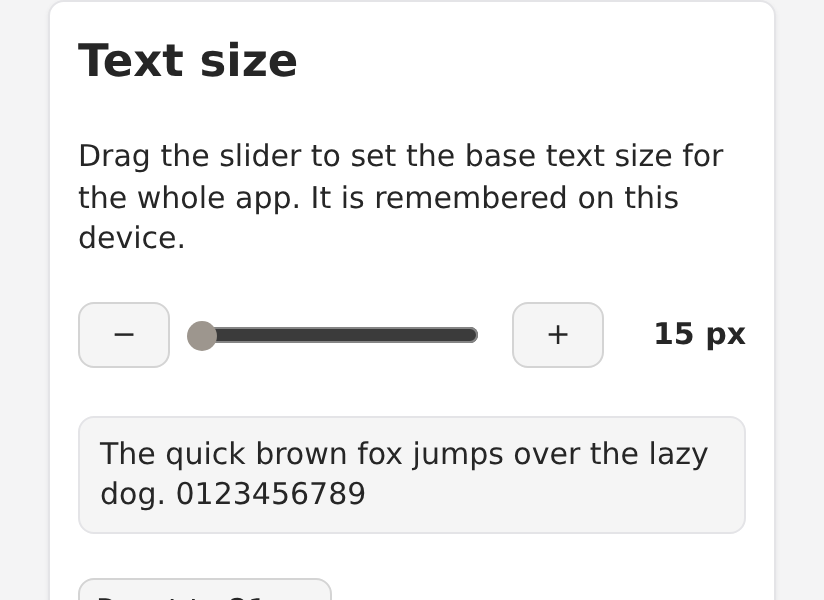
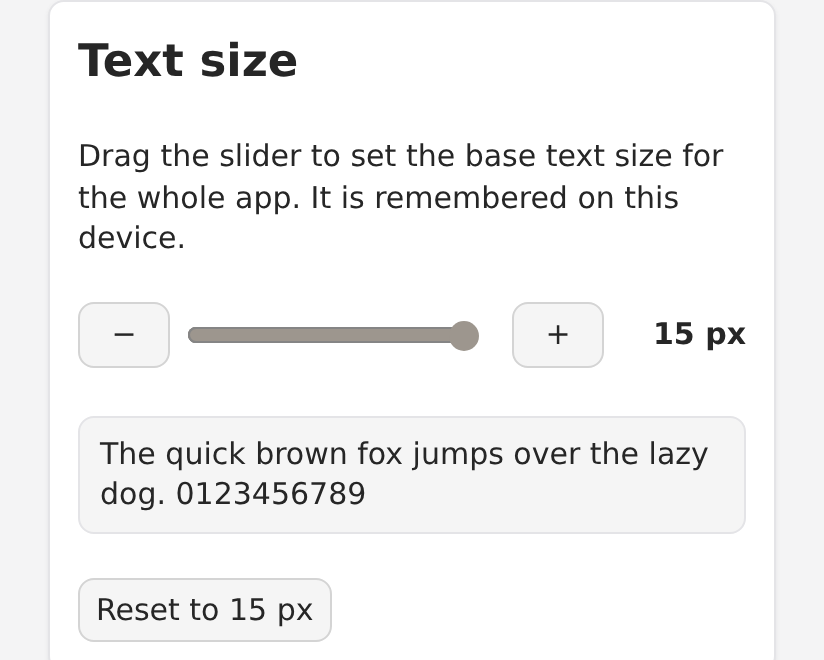
Text size runs 5-15px, with 15px as the default and the ceiling
getComputedStyle().fontSize reports CSS pixels, so it reads 21px whether the
page is laid out at ~980px and scaled down to the screen (no viewport meta) or
at true device width. That is why measuring could not see what the user was
describing: the apparent size is what changed, and before 15e176f a 21px root
reached the eye at roughly 15px.

15px is therefore both the top of the range and the default, and the
stylesheet's fallback moved to 15px with it so an untouched install and the
card cannot disagree. Below 15 is for a screen where even that is too large.

Spacing, tap targets and toolbar icons keep their pixel floors (8/4/14/24px
spacing, 44px targets, 26px icons), so turning the text down never shrinks
the things you press.

Also: check-viewport.py's base-size assertion followed the default to 15px,
and check-text-size.py now drives a drag towards the small end of the range.

diff --git a/extension/content/vdh-text-size.js b/extension/content/vdh-text-size.js
@@ -15,9 +15,15 @@
    The service worker cannot reach localStorage, which is why both exist. */
 
 export const VDH_TEXT_SIZE_KEY = "vdh_ui_text_size";
-export const VDH_TEXT_SIZE_DEFAULT = 21;
-export const VDH_TEXT_SIZE_MIN = 15;
-export const VDH_TEXT_SIZE_MAX = 32;
+/* 15px is the ceiling, not a middle value: it is the size that looks the way
+   the panel did before the pages declared a viewport (commit 15e176f), when a
+   phone laid the panel out at ~980px and scaled it down to the screen. Below
+   it, the range goes down to 5px for a screen where even 15 is too large. The
+   stylesheet's own fallback is the same 15px, so an untouched install and the
+   card always agree. */
+export const VDH_TEXT_SIZE_DEFAULT = 15;
+export const VDH_TEXT_SIZE_MIN = 5;
+export const VDH_TEXT_SIZE_MAX = 15;
 
 export function clampTextSize(px) {
   let n = Math.round(Number(px));

diff --git a/scripts/check-text-size.py b/scripts/check-text-size.py
@@ -79,7 +79,7 @@ async def state(page):
 
 
 async def part_a(ctx, extid):
-    print("\nA. the default has not moved")
+    print("\nA. the default is the 15px ceiling")
     page = await ctx.new_page()
     await page.goto(f"chrome-extension://{extid}/content/popup.html")
     await page.wait_for_timeout(1500)
@@ -92,11 +92,11 @@ async def part_a(ctx, extid):
     await page.wait_for_timeout(1200)
     m = await page.evaluate(MEASURE)
     print(f"   {m}", flush=True)
-    ok(m["root"] == "21px", f"root font-size is 21px by default ({m['root']})")
-    ok(m["main"] == "21px", f"com-main is 21px ({m['main']})")
-    ok(m["toolbar"] == "21px", f"the toolbar is 21px ({m['toolbar']})")
-    ok(m["button"] and m["button"]["font"] == "21px",
-       f"a toolbar button is 21px ({m['button']})")
+    ok(m["root"] == "15px", f"root font-size is 15px by default ({m['root']})")
+    ok(m["main"] == "15px", f"com-main is 15px ({m['main']})")
+    ok(m["toolbar"] == "15px", f"the toolbar is 15px ({m['toolbar']})")
+    ok(m["button"] and m["button"]["font"] == "15px",
+       f"a toolbar button is 15px ({m['button']})")
     return page
 
 
@@ -106,10 +106,10 @@ async def part_b(page):
     s0 = await state(page)
     print(f"   initial: {s0}", flush=True)
     ok(s0 is not None, "the card is in the Settings view")
-    ok(s0 and s0["min"] == "15" and s0["max"] == "32",
-       f"the slider spans 15..32 px ({s0 and (s0['min'], s0['max'])})")
-    ok(s0 and s0["value"] == 21 and s0["readout"] == "21 px",
-       f"it starts on the 21px default ({s0 and (s0['value'], s0['readout'])})")
+    ok(s0 and s0["min"] == "5" and s0["max"] == "15",
+       f"the slider spans 5..15 px ({s0 and (s0['min'], s0['max'])})")
+    ok(s0 and s0["value"] == 15 and s0["readout"] == "15 px",
+       f"it starts on the 15px ceiling ({s0 and (s0['value'], s0['readout'])})")
     ok(s0 and s0["right"] <= 412, f"the card fits the panel width (right {s0 and s0['right']})")
 
     # a real drag: press on the slider near its right end, the way a thumb moves
@@ -118,11 +118,11 @@ async def part_b(page):
     await page.wait_for_timeout(300)
     s0 = await state(page)
     r = s0["rect"]
-    await page.mouse.click(r["x"] + r["w"] * 0.9, r["y"] + r["h"] / 2)
+    await page.mouse.click(r["x"] + r["w"] * 0.15, r["y"] + r["h"] / 2)
     await page.wait_for_timeout(400)
     s1 = await state(page)
     print(f"   after drag: {s1}", flush=True)
-    ok(s1 and s1["value"] > 24, f"dragging the slider raises the size ({s1 and s1['value']})")
+    ok(s1 and s1["value"] < 15, f"dragging the slider lowers the size ({s1 and s1['value']})")
     ok(s1 and s1["readout"] == f"{s1['value']} px",
        f"the readout shows the size ({s1 and s1['readout']})")
     ok(s1 and s1["rootFont"] == f"{s1['value']}px",
@@ -133,8 +133,8 @@ async def part_b(page):
     m1 = await page.evaluate(MEASURE)
     print(f"   {m1}", flush=True)
     ok(m1["main"] == f"{s1['value']}px", f"com-main follows ({m1['main']})")
-    ok(m1["button"]["h"] > 44,
-       f"the buttons grew with the text ({m1['button']})")
+    ok(m1["button"]["h"] >= 44,
+       f"the tap targets stay thumb-sized ({m1['button']})")
 
     # the steppers move it one pixel at a time
     base = s1["value"]
@@ -152,30 +152,30 @@ async def part_b(page):
     await page.evaluate("(() => {" + DEEP + " return deep(document, 'vdh_text_size_default').click(); })()")
     await page.wait_for_timeout(300)
     reset = await state(page)
-    ok(reset and reset["value"] == 21 and reset["rootFont"] == "21px",
-       f"Reset returns to 21px ({reset and (reset['value'], reset['rootFont'])})")
+    ok(reset and reset["value"] == 15 and reset["rootFont"] == "15px",
+       f"Reset returns to 15px ({reset and (reset['value'], reset['rootFont'])})")
     return s1["value"]
 
 
 async def part_c(page):
     print("\nC. the choice is remembered")
-    await page.evaluate("(() => {" + DEEP + " return window.vdhTextSizeUI.set(28); })()")
+    await page.evaluate("(() => {" + DEEP + " return window.vdhTextSizeUI.set(11); })()")
     await page.wait_for_timeout(400)
     stored = await page.evaluate("""async () => {
         const got = await chrome.storage.local.get('vdh_ui_text_size');
         return {storage: got.vdh_ui_text_size, local: localStorage.getItem('vdh_ui_text_size')};
     }""")
     print(f"   stored: {stored}", flush=True)
-    ok(stored["storage"] == 28, f"chrome.storage holds 28 ({stored['storage']})")
-    ok(stored["local"] == "28", f"localStorage holds 28 ({stored['local']})")
+    ok(stored["storage"] == 11, f"chrome.storage holds 11 ({stored['storage']})")
+    ok(stored["local"] == "11", f"localStorage holds 11 ({stored['local']})")
 
     await page.reload()
     await page.wait_for_timeout(1400)
     m = await page.evaluate(MEASURE)
-    ok(m["root"] == "28px", f"a fresh load comes back at 28px ({m['root']})")
+    ok(m["root"] == "11px", f"a fresh load comes back at 11px ({m['root']})")
     ok(await open_settings(page), "Settings still opens after the reload")
     s = await state(page)
-    ok(s and s["value"] == 28 and s["readout"] == "28 px",
+    ok(s and s["value"] == 11 and s["readout"] == "11 px",
        f"the slider shows the saved size ({s and (s['value'], s['readout'])})")
 
 
@@ -191,15 +191,15 @@ async def part_d(ctx, extid, page):
                     return el ? getComputedStyle(el).fontSize : null; })()
     })""")
     print(f"   history page: {h}", flush=True)
-    ok(h["root"] == "28px", f"the history page opens at 28px, not the vendor 12px ({h['root']})")
+    ok(h["root"] == "11px", f"the history page opens at 11px, not the vendor 12px ({h['root']})")
 
     # live: change the size in the panel, the open history page must follow
     await page.bring_to_front()
-    await page.evaluate("(() => window.vdhTextSizeUI.set(19))()")
+    await page.evaluate("(() => window.vdhTextSizeUI.set(7))()")
     await page.wait_for_timeout(500)
     live = await hist.evaluate(
         "() => getComputedStyle(document.documentElement).fontSize")
-    ok(live == "19px", f"an already open history page resizes itself ({live})")
+    ok(live == "7px", f"an already open history page resizes itself ({live})")
 
     # and the embedded history view inside the panel, which is an iframe
     await page.evaluate("(() => {" + DEEP + """
@@ -213,7 +213,7 @@ async def part_d(ctx, extid, page):
         emb = await frames[0].evaluate(
             "() => getComputedStyle(document.documentElement).fontSize")
     print(f"   embedded history ({len(frames)} frame(s)): {emb}", flush=True)
-    ok(emb == "19px", f"the history view inside the panel is 19px too ({emb})")
+    ok(emb == "7px", f"the history view inside the panel is 7px too ({emb})")
     await hist.close()
 
 
@@ -227,9 +227,9 @@ async def part_e(page):
             document.documentElement.removeAttribute('font_size');
             return v;
         }""", attr)
-        want = round(19 * factor, 1)
+        want = round(7 * factor, 1)
         ok(abs(got - want) < 0.6,
-           f"font_size={attr} on a 19px base gives {got:.1f}px (want ~{want}px)")
+           f"font_size={attr} on a 7px base gives {got:.1f}px (want ~{want}px)")
 
 
 async def main():

diff --git a/scripts/patch-vdh-mobile-ui.py b/scripts/patch-vdh-mobile-ui.py
@@ -18,8 +18,9 @@ What it changes (see docs/ANDROID_PORT_PLAN.md and TURN_LOG.md for why):
       Patch v3 rerouted it to a tab; that was wrong (user feedback).
 
   content/sidebar.html, content/popup.html
-    - scale the whole UI up for a phone: 20px root (stock is 12px, and
-      0.8rem = 9.6px below 400px wide), bigger spacing/video-height, thumb-
+    - scale the whole UI for a phone: the root is the user's base size, 15px
+      by default (stock is 12px, and 0.8rem = 9.6px below 400px wide), bigger
+      spacing/video-height, thumb-
       sized controls, and it beats the stock "make everything small" rule.
     - fill viewport width and height, including the popup_size variants,
       without touching the app's own #main / #toolbar flex chain.
@@ -137,20 +138,22 @@ CSS = """<style>/*vdh-android-ui-v6*/
    :root but never the shadow HOSTS, so the components kept shrinking.
 
    v5 therefore:
-     - root 21px, repeated inside the <=400px media query so the stock shrink
-       rule can never win;
+     - root at the user's base size (15px by default), repeated inside the
+       <=400px media query so the stock shrink rule can never win;
      - font-size forced on every component host (page styles on a host always
        beat that component's own :host rule), so everything inside inherits
        the new size;
      - roomier controls/spacing and a viewport-filling layout. */
 :root, html {
   /* --vdh-ui-base-font is the user's text-size setting (see
-     content/vdh-text-size.js); 21px is the default and it is what the whole
-     UI scales from, because every other size here is expressed in rem. */
-  --vdh-ui-base-font: 21px;
+     content/vdh-text-size.js); 15px is the default and it is what the whole UI
+     scales from, because every other size here is expressed in rem. The user
+     chooses 5-15px in Settings; 15px reproduces the size the panel had before
+     the viewport fix (15e176f) made the phone lay it out at true device width. */
+  --vdh-ui-base-font: 15px;
   font-size: var(--vdh-ui-base-font) !important;
   /* the spacing follows the text size too, but never below the value the phone
-     UI was tuned for: at the 21px default every one of these is unchanged */
+     UI was tuned for: at the 15px default every one of these is unchanged */
   --spacing-small: max(4px, calc(var(--vdh-ui-base-font) * 0.19048)) !important;
   --spacing-medium: max(8px, calc(var(--vdh-ui-base-font) * 0.38095)) !important;
   --spacing-large: max(14px, calc(var(--vdh-ui-base-font) * 0.66667)) !important;
@@ -168,8 +171,9 @@ CSS = """<style>/*vdh-android-ui-v6*/
   }
 }
 /* the app's own font-size setting still stacks on the (possibly user-set) base:
-   large and verylarge were 23px and 25px on top of the 21px base, so keep those
-   ratios instead of pinning absolute px values that would shrink a bigger base */
+   large and verylarge were 23px and 25px on top of the old 21px base, so keep
+   those ratios instead of pinning absolute px values that would shrink a
+   bigger base */
 html[font_size="large"] { font-size: calc(var(--vdh-ui-base-font) * 1.0952) !important; }
 html[font_size="verylarge"] { font-size: calc(var(--vdh-ui-base-font) * 1.1905) !important; }
 
@@ -287,7 +291,7 @@ TOOLBAR_MARK = "vdh-android-toolbar"
 TOOLBAR_CSS = """/*vdh-android-toolbar*/
 /* Lives INSIDE the com-toolbar shadow template's style block: icons and the
    bar's own padding are only reachable from there. Bigger icons, real tap
-   targets and roomier padding, scaled to the 21px base font. */
+   targets and roomier padding, scaled to the base font size. */
 #toolbar {
   /* wrap instead of clipping: 7 bigger buttons do not fit a 412px phone on
      one line (7 x 46 + 6 x 10 + padding > viewport), and the stock bar clips */
@@ -354,7 +358,7 @@ def patch_viewport(root: pathlib.Path) -> None:
     """Without a viewport meta tag Chromium lays these pages out at a default
     ~980px width and then boosts the text to compensate, which makes everything
     look roughly twice its intended size on a phone. Declaring the device width
-    makes the 21px base mean 21 real pixels and keeps the layout consistent."""
+    makes the base size mean real pixels and keeps the layout consistent."""
     for name in ("popup.html", "sidebar.html", "history.html"):
         p = root / "content" / name
         s = p.read_text(encoding="utf-8")

diff --git a/scripts/patch-vdh-text-size.py b/scripts/patch-vdh-text-size.py
@@ -17,8 +17,8 @@ What this script does:
     - read/apply/save the size, localStorage for a synchronous first paint and
       chrome.storage.local for durability + live updates in the other pages
   content/popup.html, content/sidebar.html
-    - a "Text size" card in the Settings view: slider, -/+ steppers, a live
-      readout, a preview line, and a reset to the 21px default
+    - a "Text size" card in the Settings view: slider (5-15px, 15px default),
+      -/+ steppers, a live readout, a preview line, and a reset to 15px
   content/panel.js, content/history.js
     - bootstrap: apply the saved size as the module is evaluated
 
@@ -61,13 +61,13 @@ CARD = '''<vbox id="vdh_text_size_box" class="roundedbox">
         <p>Drag the slider to set the base text size for the whole app. It is remembered on this device.</p>
         <hbox id="vdh_text_size_row">
           <button id="vdh_text_size_minus" aria-label="Smaller text">&#8722;</button>
-          <input id="vdh_text_size_range" type="range" min="15" max="32" step="1" value="21" aria-label="Text size in pixels"/>
+          <input id="vdh_text_size_range" type="range" min="5" max="15" step="1" value="15" aria-label="Text size in pixels"/>
           <button id="vdh_text_size_plus" aria-label="Bigger text">+</button>
-          <span id="vdh_text_size_value">21 px</span>
+          <span id="vdh_text_size_value">15 px</span>
         </hbox>
         <p id="vdh_text_size_preview">The quick brown fox jumps over the lazy dog. 0123456789</p>
         <hbox id="vdh_text_size_row2">
-          <button id="vdh_text_size_default">Reset to 21 px</button>
+          <button id="vdh_text_size_default">Reset to 15 px</button>
         </hbox>
       </vbox>'''
 

diff --git a/scripts/check-viewport.py b/scripts/check-viewport.py
@@ -58,8 +58,8 @@ async def main():
                f"{width}px device lays out at {width}px, not 980 ({info['layout']})")
             ok(not info["overflow"],
                f"nothing overflows the {width}px screen ({info['overflow']})")
-            ok(info["font"] == "21px",
-               f"the 21px base really is 21px ({info['font']})")
+            ok(info["font"] == "15px",
+               f"the 15px base really is 15px ({info['font']})")
 
             # the in-panel history view must follow the user's own text size
             await page.evaluate("""() => document.documentElement.setAttribute(

diff --git a/README.md b/README.md
@@ -16,7 +16,7 @@ holds source only:
 | `extension/` | pristine unpacked VDH Pro 10.6.1.2 tree (vendor drop, unmodified, diffable against upstream) |
 | `scripts/format-vdh-source.py` | reformats every `.js`/`.html` in `extension/`; verified behaviour-neutral (identical token stream / tag sequence) |
 | `scripts/patch-vdh-mobile-ui.py` | copies `extension/` to `build/extension` and applies the Android UI patch |
-| `scripts/patch-vdh-text-size.py` | adds the manual text-size control (Settings -> Text size, 15-32px) |
+| `scripts/patch-vdh-text-size.py` | adds the manual text-size control (Settings -> Text size, 5-15px) |
 | `scripts/render-check-vdh-ui.py` | renders the patched panel in headless Chromium at phone size and asserts the layout |
 | `scripts/strip-vendor-links.py` | makes the build self-contained: vendor links → inert host, premium/account/review UI hidden, store links and vendor content scripts removed, extension renamed |
 | `scripts/pack-vdh-artifacts.sh` | packs `build/extension` into `dist/` (crx + two zips) with integrity checks |
@@ -44,8 +44,15 @@ old one in place.
 The phone UI is built around one number: `--vdh-ui-base-font`, the root font
 size in CSS pixels. Every other size in the stylesheet is expressed in `rem`,
 so changing that one property rescales the whole panel, the sidebar and the
-history page. **Settings -> Text size** sets it (slider, steppers, or Reset);
-the default is 21px, which is the size the port has used since `6c95ba9`.
+history page. **Settings -> Text size** sets it (slider, steppers, or Reset):
+the range is **5-15px and 15px is the default and the maximum**.
+
+15px is the ceiling on purpose. It is the size that looks the way the panel did
+before `15e176f` gave the pages a viewport meta tag: without one, a phone laid
+the panel out at ~980px and scaled that down to the screen, so 21 CSS px reached
+the eye at roughly 15. Once the pages declared `width=device-width` that scaling
+disappeared and everything got correspondingly bigger. Going below 15 is for
+screens where even that is too large.
 
 The chosen size lives in `localStorage` (read synchronously, so a saved size is
 applied before the first paint) and in `chrome.storage.local` (durable, and the

diff --git a/TURN_LOG.md b/TURN_LOG.md
@@ -418,3 +418,20 @@
 - `scripts/check-text-size.py`: default still 21px, a real mouse drag on the
   slider, steppers, reset, persistence across reload, history page follows both
   on a fresh load and live, and the app's own large/verylarge still stack on top.
+
+## 2026-11-05 — round 10: the range is 5-15px, and 15px is the ceiling
+
+- The user was right that my measurements had missed something. `getComputedStyle
+  .fontSize` reports CSS pixels, so it reads 21px whether the page is laid out at
+  ~980px and scaled down to the screen (no viewport meta) or at true device
+  width. The apparent size is what changes, and that is the "twice the size"
+  the user kept describing: before `15e176f` a 21px root reached the eye at
+  roughly 15px.
+- So the slider now runs 5-15px with 15px as both the default and the maximum:
+  15 reproduces the size the panel used to have, and below it is for a screen
+  where even that is too large. The stylesheet fallback moved to 15px as well,
+  so an untouched install and the card can never disagree.
+- Spacing, tap targets (44px) and toolbar icons (26px) keep their px floors, so
+  shrinking the text to 5px never shrinks the things you press.
+- Suite green: text-size, viewport, history-open, subtitles, subtitle-options,
+  journal, resume, real-extension (rootFont now reports 15px).
